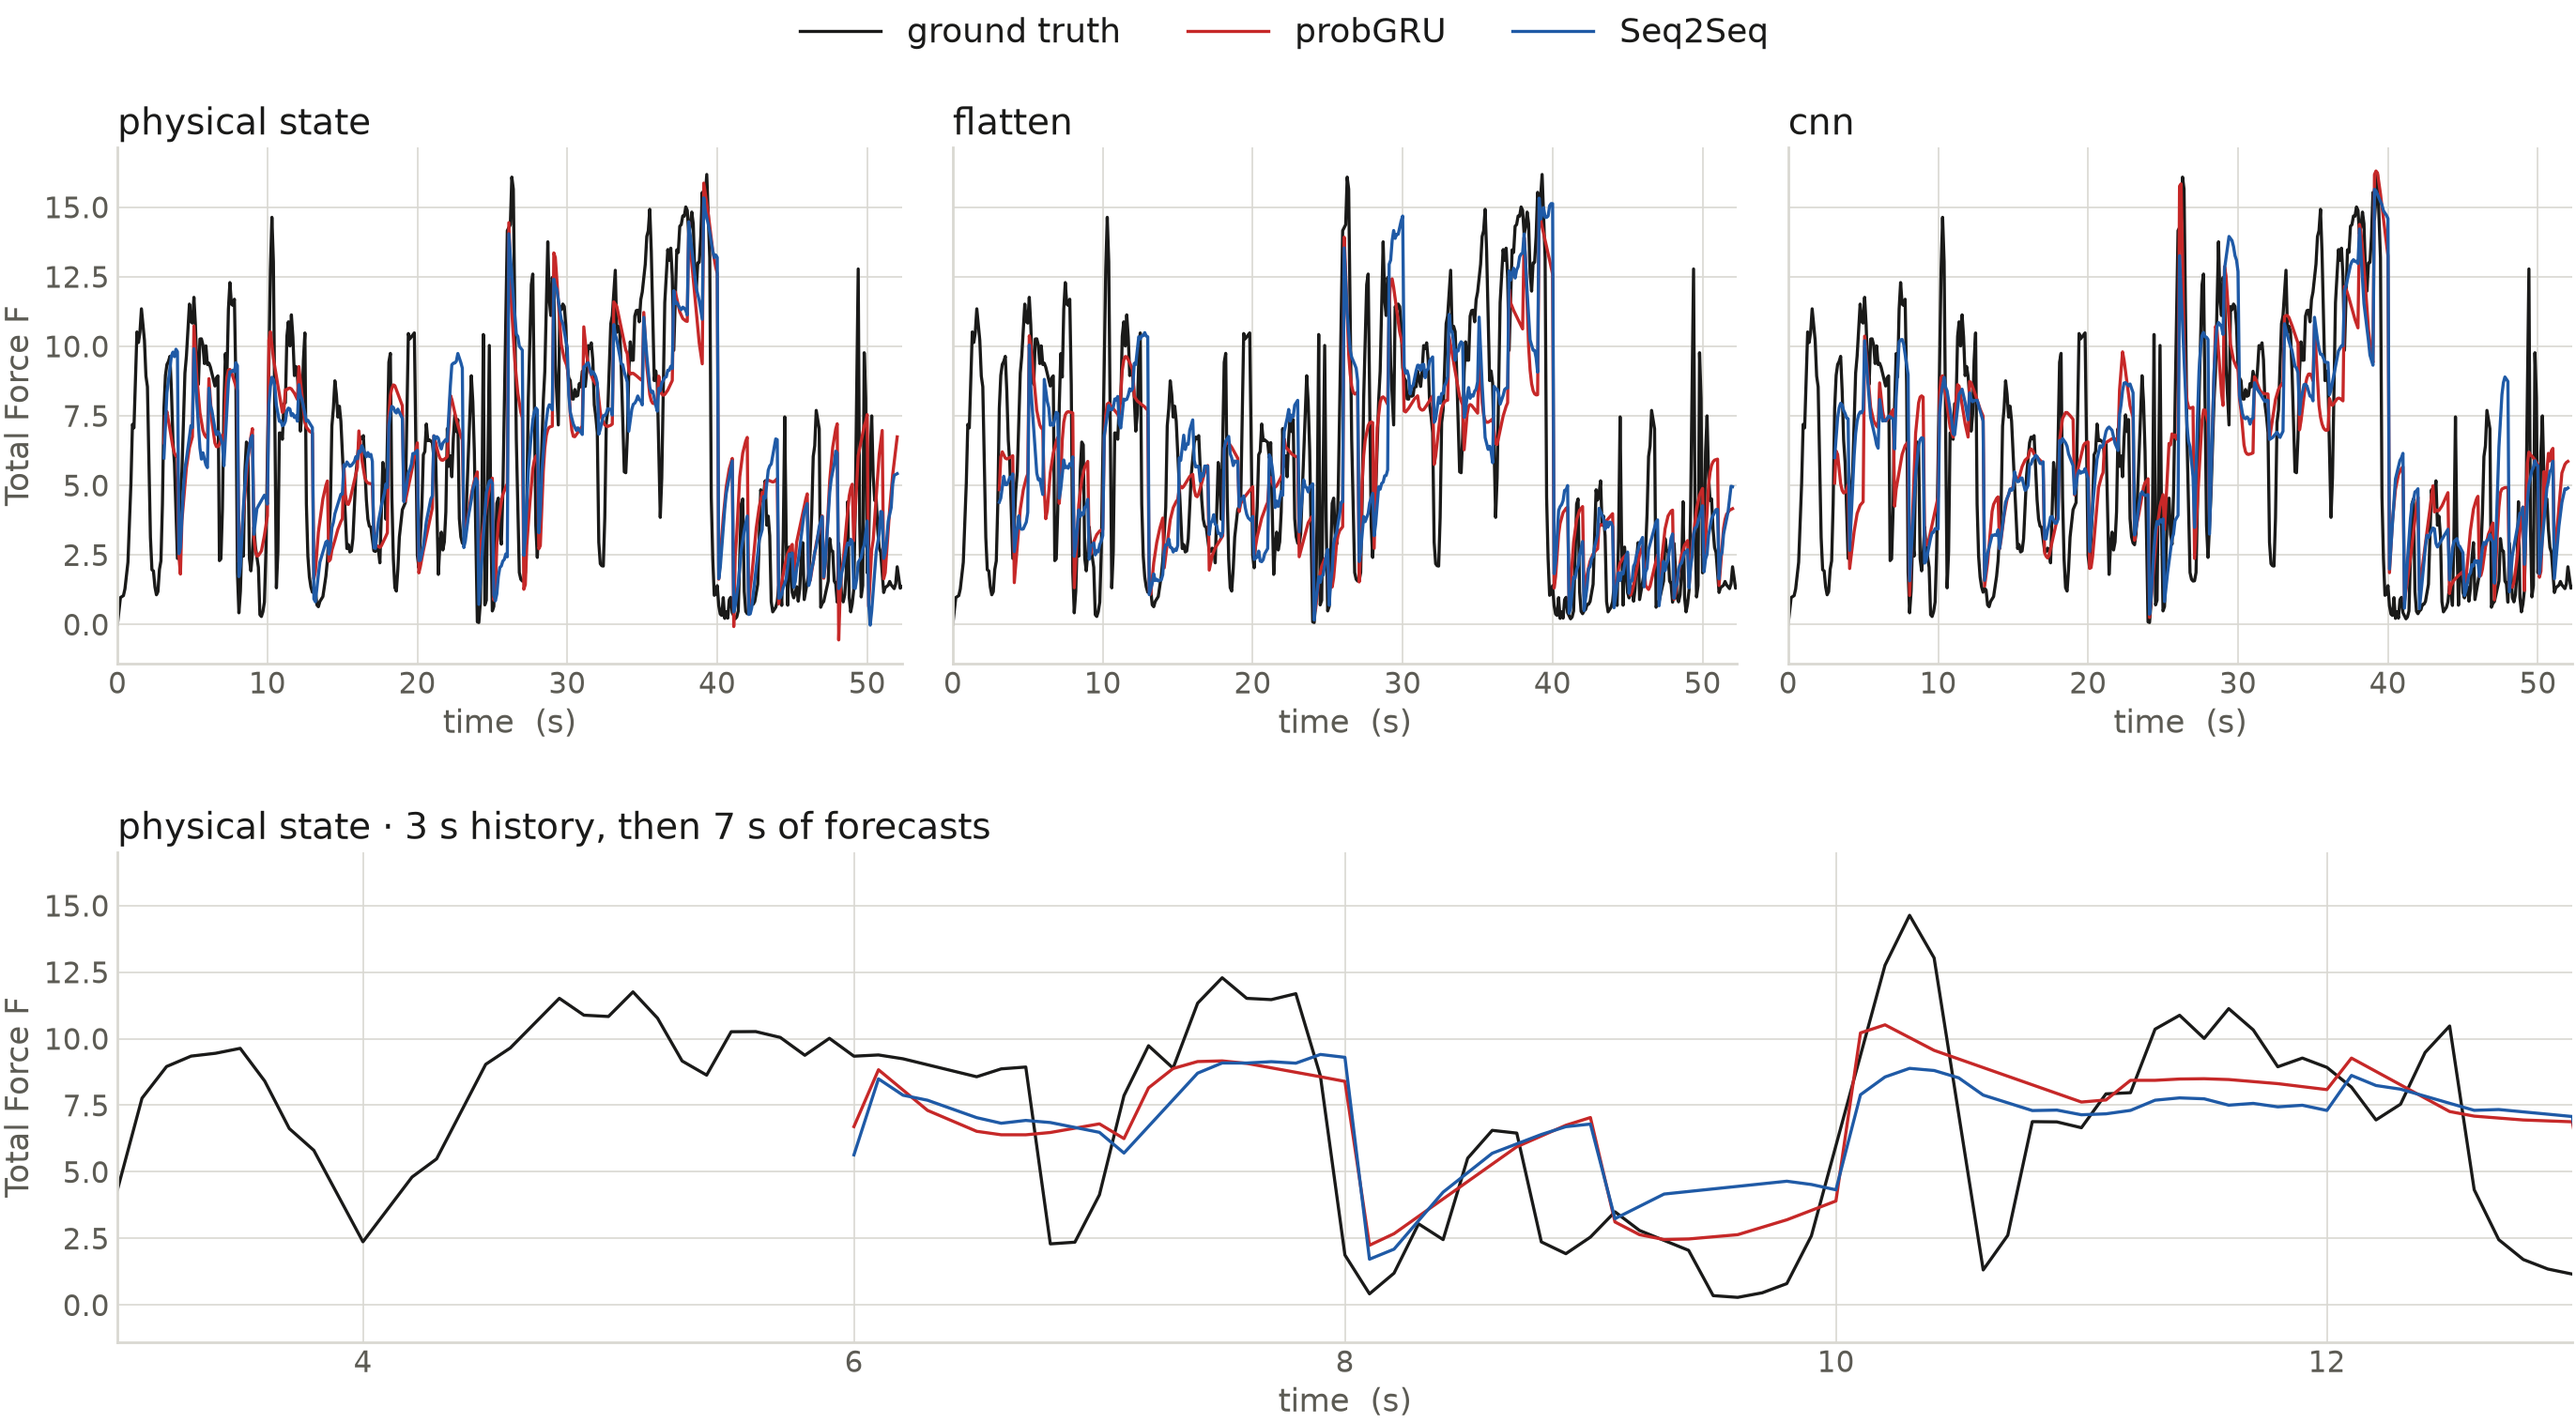
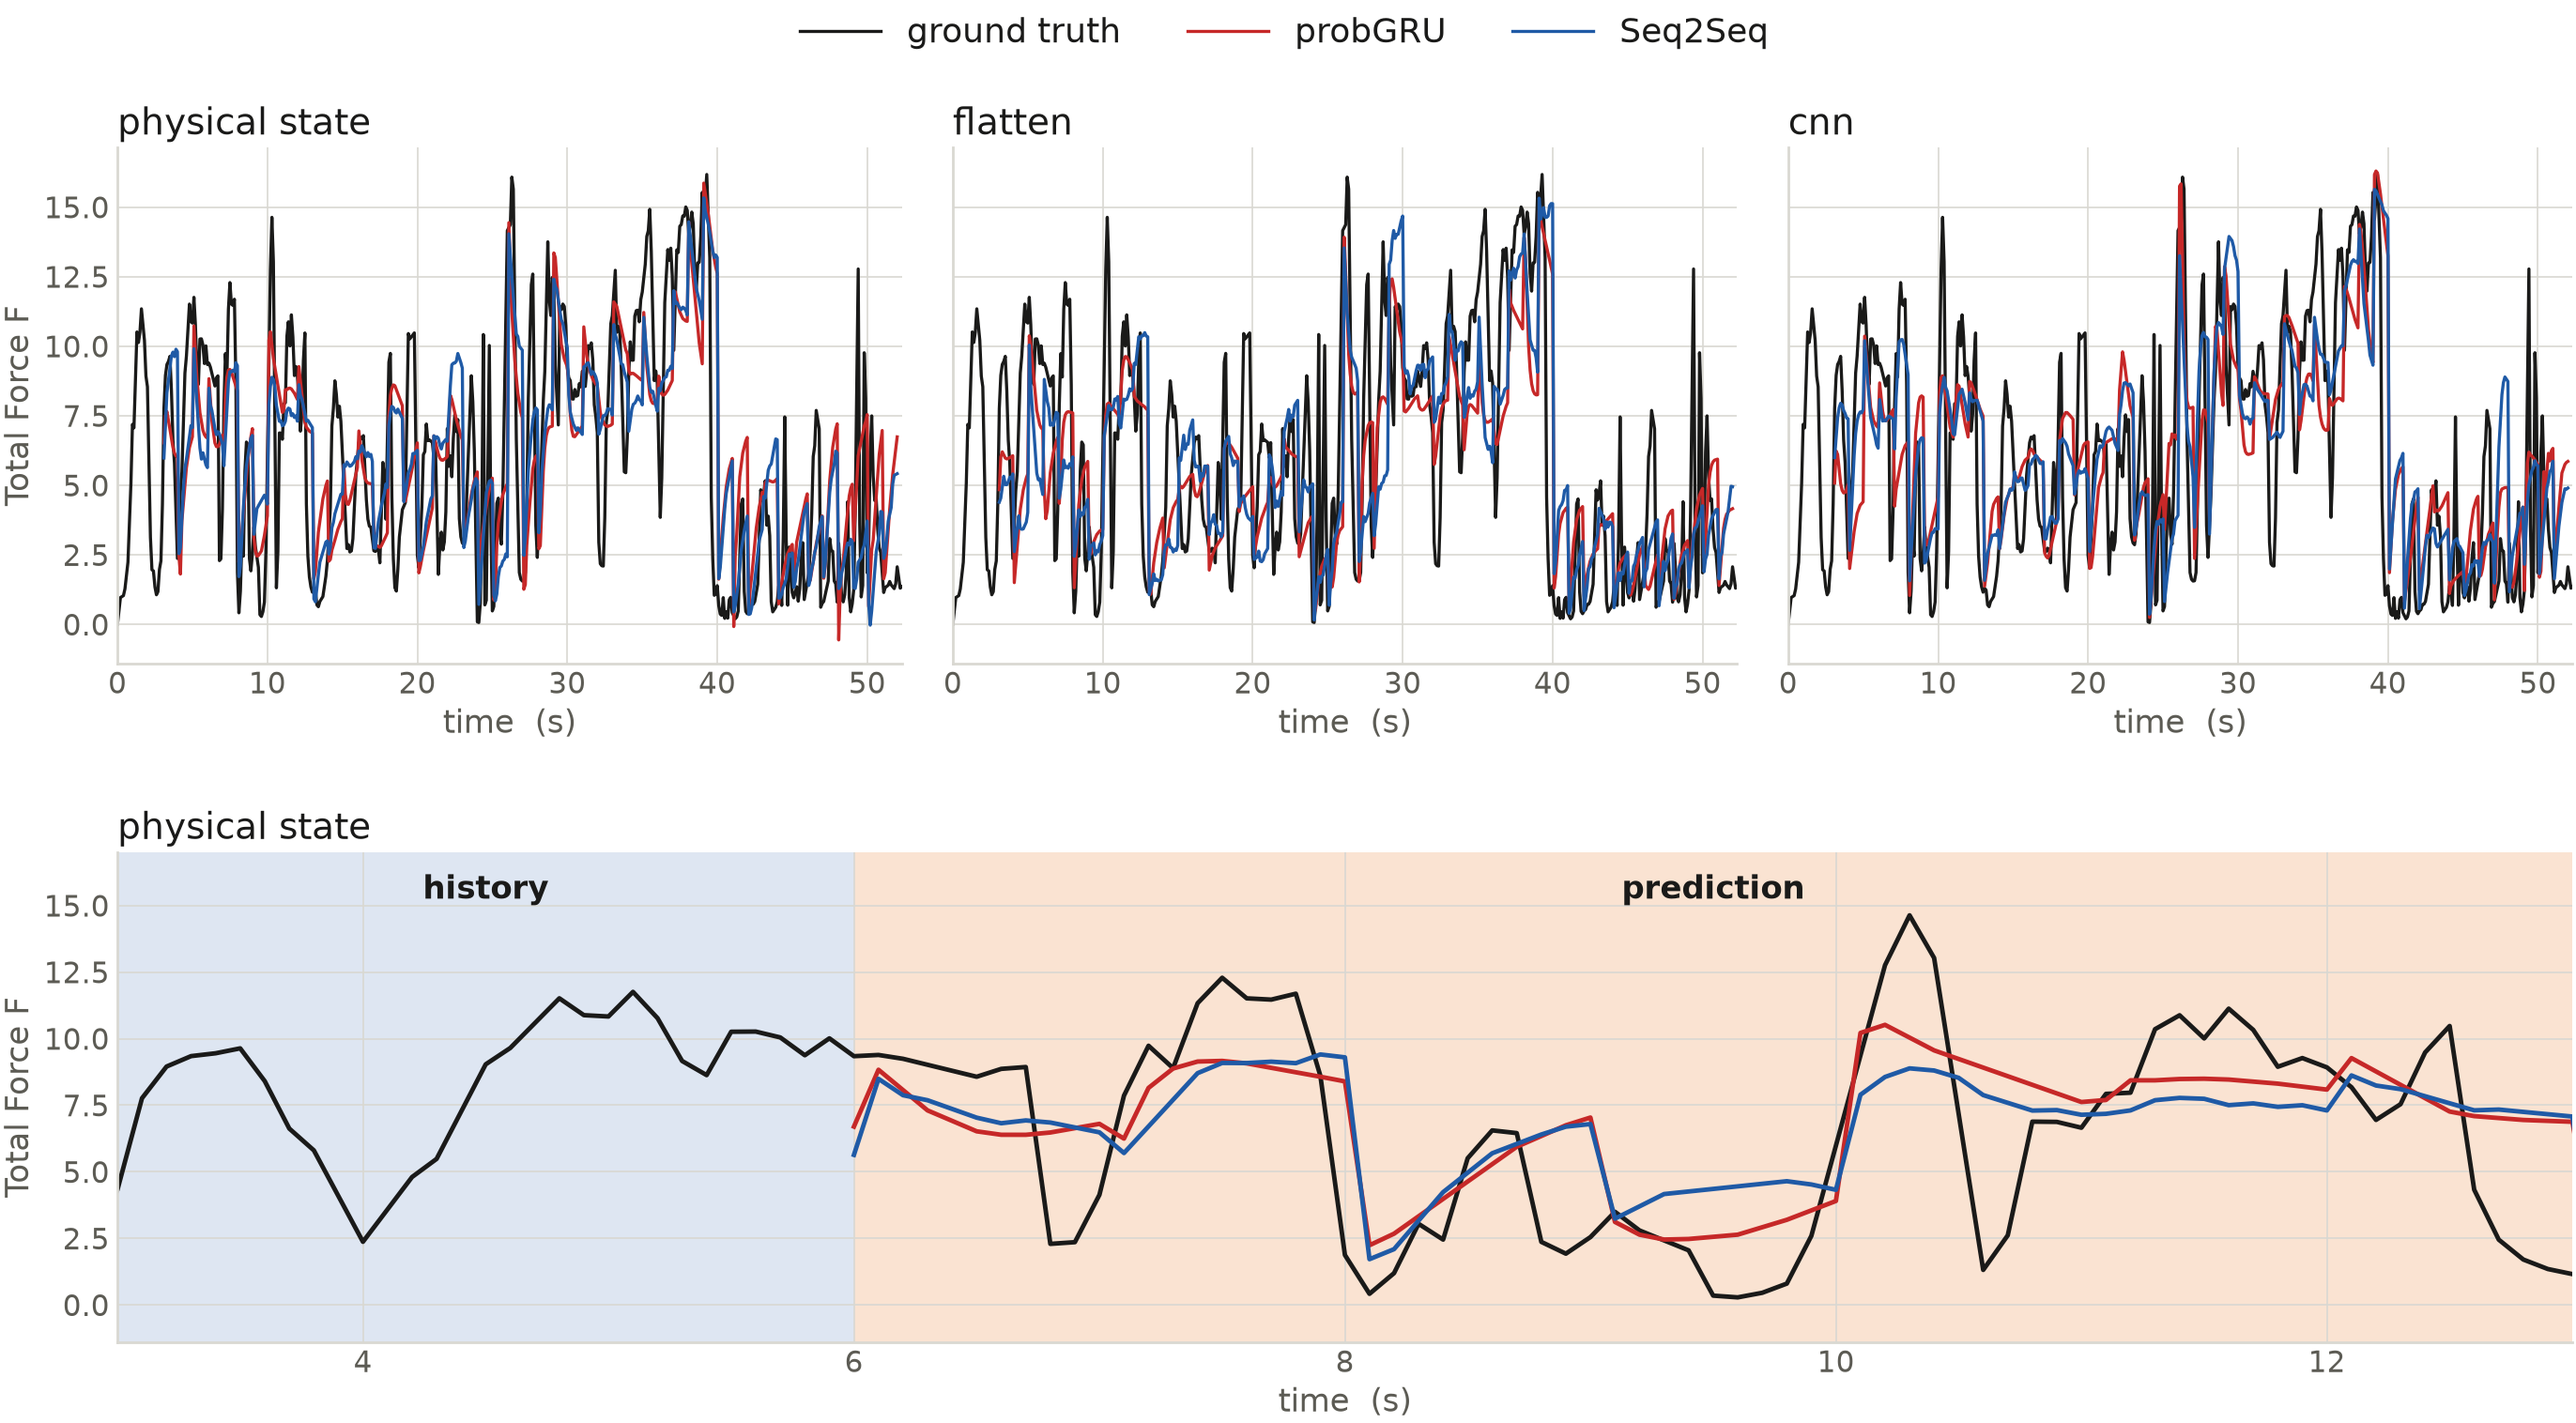
Shade the history and prediction stretches, and let the enlarged panel carry a heavier line
The split between what the models were given and what they predict is the point of
the enlarged panel, so it is now a band of colour behind each stretch with the name
above it, rather than a sentence appended to the title. The title keeps only the
input name.

An enlarged panel is about three times the width of one in the row, so its lines
are scaled 1.45x. The scale defaults to 1, and the row figure re-renders
byte-identical.

diff --git a/scripts/plot_backbones_by_input.py b/scripts/plot_backbones_by_input.py
@@ -40,13 +40,19 @@ PG_COLOR, S2S_COLOR = "#C62828", "#1F5AA6"
 # Thin throughout: at 7.16 in the three panels hold ~500 points each, and at 0.9-1.0 pt the
 # forecasts merged into a band over the truth.
 LW_TRUTH, LW_S2S, LW_PG, LW_GRID, LW_SPINE = 0.6, 0.6, 0.6, 0.3, 0.5
+# An enlarged panel is ~3x the width of one in the row, so it carries a heavier line.
+ZOOM_LW = 1.45
 # Reserve a fixed ~0.18 in for the legend rather than a fixed fraction: a fraction tuned for
 # the 2.15 in row left a wide gap above a taller figure. 0.18275 in is exactly the 0.915 the
 # row figure was drawn with, so that figure is unchanged.
 LEGEND_IN = 0.18275
+# Shading for a panel split into the history the models were given and the stretch they
+# predict. The split is the point of such a panel, and a band of colour says it without
+# spending the title on it.
+HIST_FILL, PRED_FILL = "#DEE6F2", "#FAE3D2"
 
 
-def _draw(ax, series, color, lw, z, bands, tmin=None):
+def _draw(ax, series, color, lw, z, bands, tmin=None, lw_scale=1.0):
     """One series, optionally withheld before tmin -- the stretch shown as history only."""
     t, v = np.asarray(series[0]), np.asarray(series[1])
     sig = np.asarray(series[2]) if len(series) > 2 else None
@@ -57,17 +63,24 @@ def _draw(ax, series, color, lw, z, bands, tmin=None):
     if bands and sig is not None:
         ax.fill_between(t, v - 2 * sig, v + 2 * sig, color=color, alpha=0.18, lw=0,
                         zorder=z - 1)
-    ax.plot(t, v, "-", color=color, lw=lw, zorder=z)
+    ax.plot(t, v, "-", color=color, lw=lw * lw_scale, zorder=z)
 
 
-def _panel(ax, p, xlim, show_ylabel, bands):
+def _panel(ax, p, xlim, show_ylabel, bands, lw_scale=1.0, shade=False):
     """panel dict: `title`, `truth`, optional `s2s` / `pg`, optional `forecast_from`."""
     start = p.get("forecast_from")
-    _draw(ax, p["truth"], TRUTH, LW_TRUTH, 2, False)
+    if shade and start is not None:
+        # Behind the grid as well as the lines: these are regions of the axis, not data.
+        ax.axvspan(xlim[0], start, color=HIST_FILL, lw=0, zorder=-2)
+        ax.axvspan(start, xlim[1], color=PRED_FILL, lw=0, zorder=-2)
+        for lo, hi, name in ((xlim[0], start, "history"), (start, xlim[1], "prediction")):
+            ax.text((lo + hi) / 2, 0.955, name, transform=ax.get_xaxis_transform(),
+                    ha="center", va="top", fontsize=PT_LABEL, color=INK, weight="bold")
+    _draw(ax, p["truth"], TRUTH, LW_TRUTH, 2, False, lw_scale=lw_scale)
     if p.get("pg") is not None:
-        _draw(ax, p["pg"], PG_COLOR, LW_PG, 5, bands, start)
+        _draw(ax, p["pg"], PG_COLOR, LW_PG, 5, bands, start, lw_scale)
     if p.get("s2s") is not None:
-        _draw(ax, p["s2s"], S2S_COLOR, LW_S2S, 6, bands, start)
+        _draw(ax, p["s2s"], S2S_COLOR, LW_S2S, 6, bands, start, lw_scale)
     ax.set_title(p["title"], fontsize=PT_TITLE, color=INK, loc="left", pad=2.5)
     ax.set_xlabel("time  (s)", fontsize=PT_LABEL, color=MUTED, labelpad=1.5)
     if show_ylabel:
@@ -99,7 +112,7 @@ def _save(fig, out, height):
     print(f"[done] {out}  ({PAPER_W}x{height} in)")
 
 
-def render(panels, xlim, out, height=2.15, bands=False):
+def render(panels, xlim, out, height=2.15, bands=False, lw_scale=1.0, shade=False):
     """One row of panels on a shared axis. xlim is (t0, t1), or a bare t1."""
     import matplotlib
     matplotlib.use("Agg")
@@ -110,7 +123,7 @@ def render(panels, xlim, out, height=2.15, bands=False):
     fig, axes = plt.subplots(1, len(panels), figsize=(PAPER_W, height), sharex=True,
                              sharey=True)
     for c, (ax, p) in enumerate(zip(np.atleast_1d(axes), panels)):
-        _panel(ax, p, xlim, c == 0, bands)
+        _panel(ax, p, xlim, c == 0, bands, lw_scale=lw_scale, shade=shade)
     fig.tight_layout(rect=(0, 0, 1, 1 - LEGEND_IN / height), w_pad=0.8)
     _legend(fig)
     _save(fig, out, height)
@@ -132,7 +145,7 @@ def render_with_zoom(panels, xlim, zoom, zoom_xlim, out, height=4.0, bands=False
         _panel(ax, p, xlim, c == 0, bands)
         if c:
             ax.tick_params(labelleft=False)
-    _panel(fig.add_subplot(gs[1, :]), zoom, zoom_xlim, True, bands)
+    _panel(fig.add_subplot(gs[1, :]), zoom, zoom_xlim, True, bands, lw_scale=ZOOM_LW, shade=True)
     fig.tight_layout(rect=(0, 0, 1, 1 - LEGEND_IN / height), w_pad=0.8, h_pad=1.2)
     _legend(fig)
     _save(fig, out, height)
@@ -197,15 +210,14 @@ def main():
 
     if a.zoom:
         t0, t1, hist = a.zoom
-        zoom = dict(panels[0], forecast_from=t0 + hist,
-                    title=f"{panels[0]['title']} · {hist:g} s history, then "
-                          f"{t1 - t0 - hist:g} s of forecasts")
+        zoom = dict(panels[0], forecast_from=t0 + hist)
         render_with_zoom(panels, (0, tmax), zoom, (t0, t1), a.out,
                          height=a.height or 4.0, bands=a.bands)
     elif a.window:
         t0, t1 = a.window
         panels = [dict(p, forecast_from=t0 + a.history) for p in panels]
-        render(panels, (t0, t1), a.out, height=a.height or 2.15, bands=a.bands)
+        render(panels, (t0, t1), a.out, height=a.height or 2.15, bands=a.bands,
+               lw_scale=ZOOM_LW, shade=True)
     else:
         render(panels, (0, tmax), a.out, height=a.height or 2.15, bands=a.bands)
 
